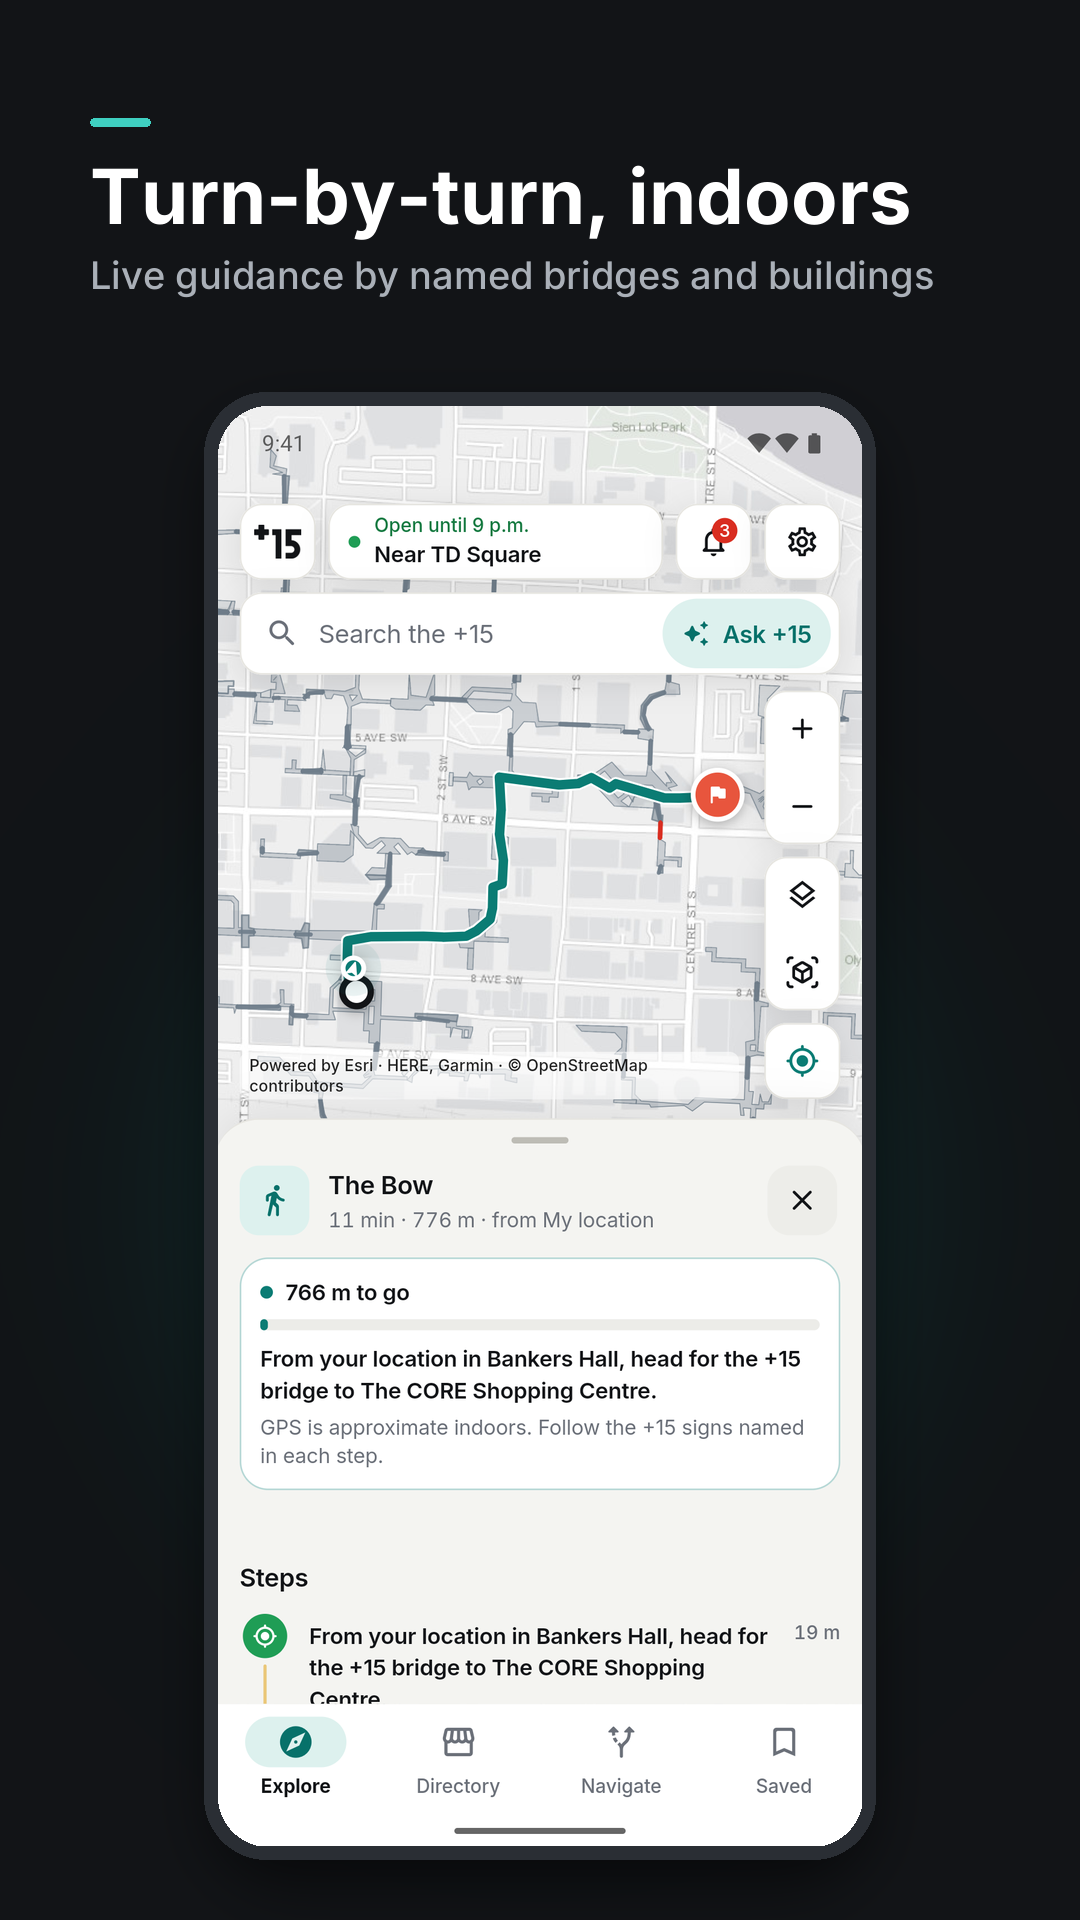
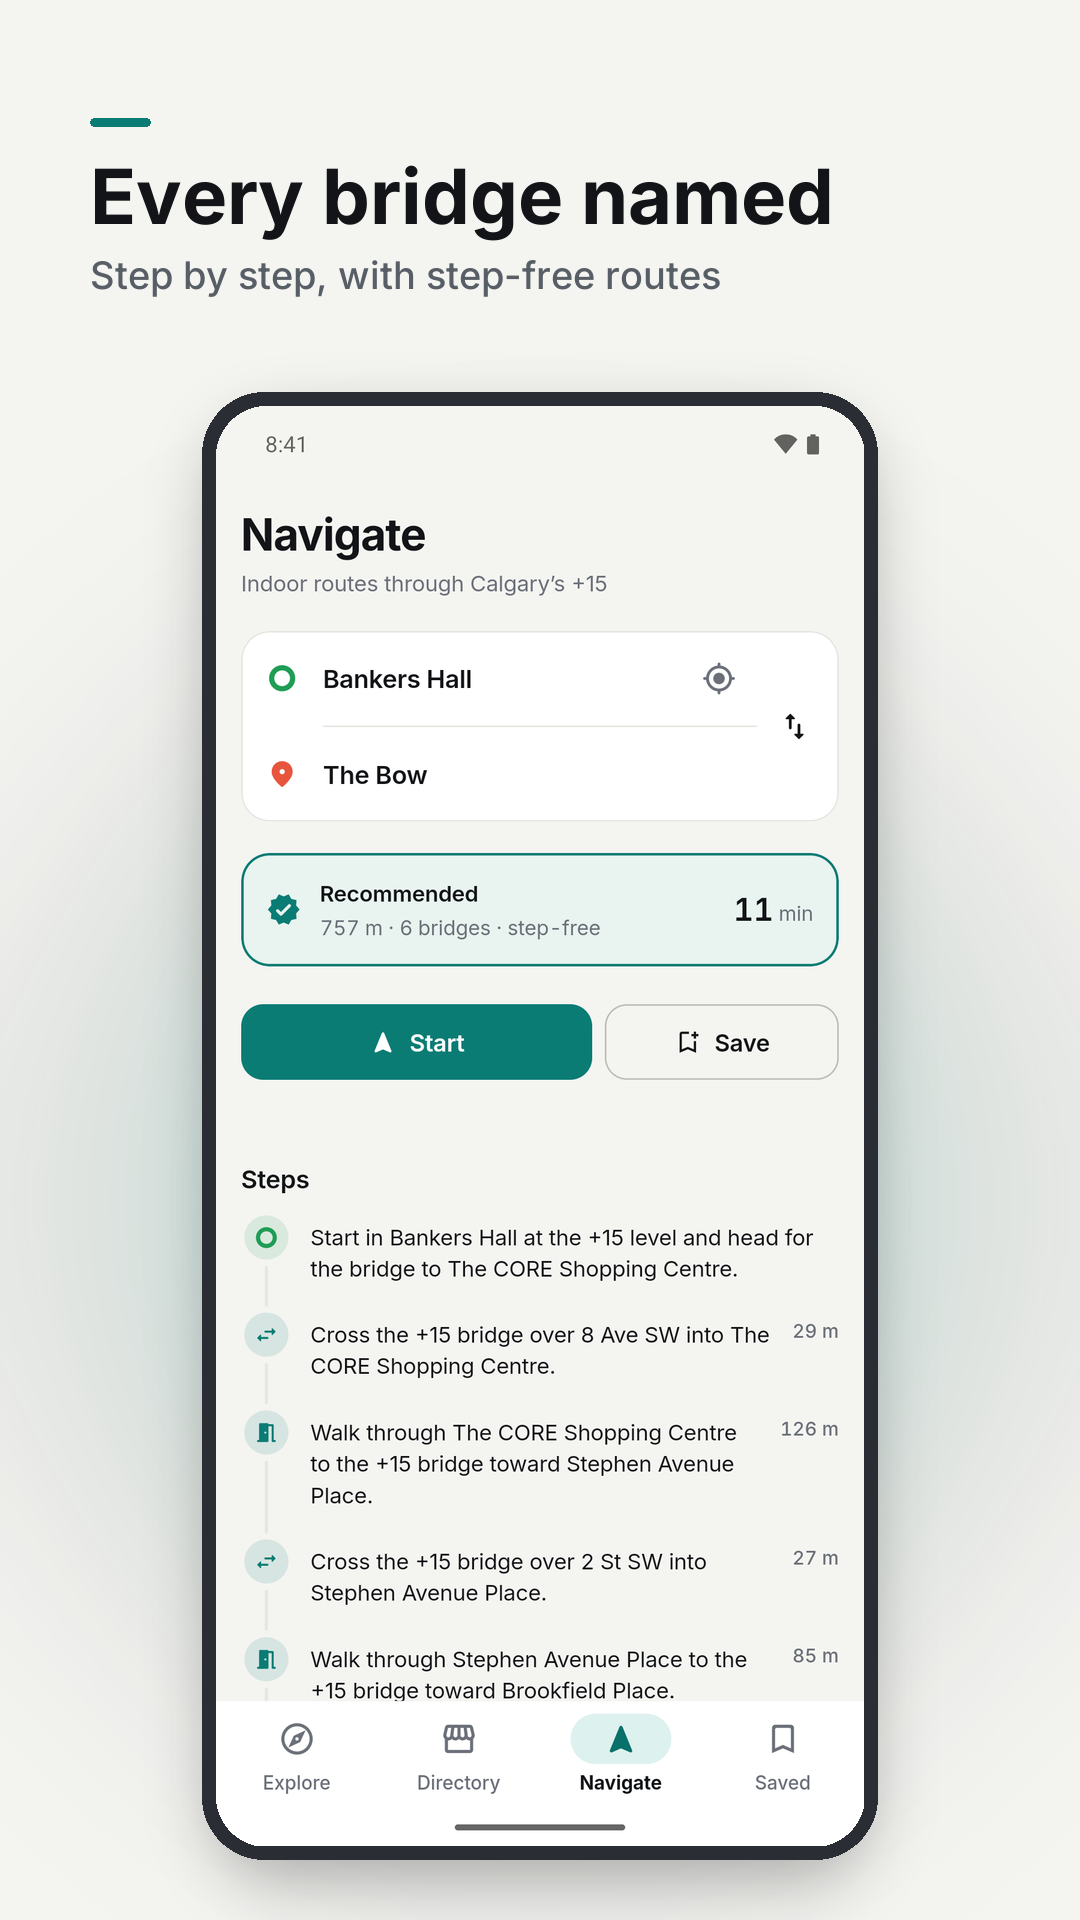
Store growth pass: keyword listing, light screenshots, landing page
Following the r/googleplayconsole "17 installs a month" playbook. Play Console
baseline (Oct 9 - Nov 5): 25 impressions, 11 visitors, 10 install clicks.
The listing converts; the app just isn't being found.

- listing.txt: keyword title "Plus 15 Map: Calgary Skywalk", short
  description with search terms, a longer description with who-it's-for and
  an FAQ, and an fr-CA listing
- make_store.py: light frames, 6 shots in pitch order from fresh emulator
  captures; drops the stale feature-graphic/icon code ("141 places")
- index.html: landing page for Google web search ("calgary +15 map")
- growth.md: dated metrics log; outreach.md: drafts to send by hand

diff --git a/docs/index.html b/docs/index.html
@@ -1,0 +1,74 @@
+<!doctype html>
+<html lang="en">
+<head>
+<meta charset="utf-8">
+<meta name="viewport" content="width=device-width, initial-scale=1">
+<title>Calgary +15 Map: indoor routes through the Plus 15 skywalk | Plus 15 app</title>
+<meta name="description" content="Free Calgary +15 map app for Android. Indoor walking routes through the Plus 15 skywalk that name every bridge, plus shops, food courts and +15 hours in downtown Calgary.">
+<link rel="canonical" href="https://harshalpathak97.github.io/plus15/">
+<meta property="og:title" content="Plus 15: the Calgary +15 map">
+<meta property="og:description" content="Indoor routes through Calgary’s +15 skywalk, bridge by bridge. No account, no ads, no tracking.">
+<meta property="og:image" content="https://harshalpathak97.github.io/plus15/store/phone-1.png">
+<meta property="og:type" content="website">
+<script type="application/ld+json">
+{"@context":"https://schema.org","@type":"MobileApplication","name":"Plus 15 Map: Calgary Skywalk","operatingSystem":"Android","applicationCategory":"TravelApplication","offers":{"@type":"Offer","price":"0","priceCurrency":"CAD"},"downloadUrl":"https://play.google.com/store/apps/details?id=com.plus15.plus15_navigator"}
+</script>
+<style>
+  body { font: 17px/1.6 system-ui, -apple-system, "Segoe UI", Roboto, sans-serif; color: #121417; background: #F4F4F1; margin: 0; }
+  main { max-width: 960px; margin: 0 auto; padding: 40px 20px 64px; }
+  h1 { font-size: clamp(30px, 6vw, 48px); line-height: 1.1; margin: 8px 0 12px; }
+  h2 { font-size: 22px; margin: 48px 0 8px; }
+  h3 { font-size: 17px; margin: 20px 0 4px; }
+  p, li { color: #2b2f35; max-width: 640px; }
+  .muted, footer p { color: #5D626A; font-size: 15px; }
+  a { color: #0B7C74; }
+  .mark { display: inline-block; background: #121417; color: #fff; font-weight: 800; border-radius: 12px; padding: 6px 12px; }
+  .cta { display: inline-block; margin: 16px 0 4px; background: #0B7C74; color: #fff; text-decoration: none; font-weight: 600; padding: 14px 24px; border-radius: 12px; min-height: 48px; box-sizing: border-box; }
+  .cta:hover { background: #096A63; }
+  .shots { display: grid; grid-template-columns: repeat(3, 1fr); gap: 16px; margin: 32px 0 0; }
+  .shots img { width: 100%; height: auto; border-radius: 16px; box-shadow: 0 6px 24px rgba(0,0,0,.08); }
+  @media (max-width: 640px) { .shots { grid-template-columns: 1fr 1fr; } .shots img:nth-child(3) { display: none; } }
+  footer { margin-top: 56px; border-top: 1px solid #E6E5E0; padding-top: 16px; }
+</style>
+</head>
+<body>
+<main>
+<span class="mark">+15</span>
+<h1>The Calgary +15 map that walks you there, indoors</h1>
+<p>It’s −30°. You’re in Bankers Hall. Your meeting is in The Bow. Plus 15 finds the indoor route through Calgary’s +15 skywalk and names every bridge on the way: “over 8 Ave SW into The CORE”.</p>
+<a class="cta" href="https://play.google.com/store/apps/details?id=com.plus15.plus15_navigator">Get it on Google Play</a>
+<p class="muted">Free for Android. No account, no ads, no tracking.</p>
+
+<div class="shots">
+  <img src="store/phone-1.png" width="1080" height="1920" alt="Route from Bankers Hall to The Bow on the +15 map, with live guidance">
+  <img src="store/phone-2.png" width="1080" height="1920" alt="Step-by-step route naming each +15 bridge" loading="lazy">
+  <img src="store/phone-4.png" width="1080" height="1920" alt="Directory of shops and food on the +15 with opening hours" loading="lazy">
+</div>
+
+<h2>What it does</h2>
+<ul>
+  <li>Search any building, shop or coffee spot in downtown Calgary.</li>
+  <li>Get an indoor walking route that names every +15 bridge, with step-free options and a Mostly indoors choice for the coldest days.</li>
+  <li>Find the nearest +15 entrance from the street. Coming from outside downtown, your maps app takes you to the best entrance and Plus 15 guides you inside.</li>
+  <li>See +15 hours, bridge closures and opening hours for 130+ shops, food courts and services.</li>
+  <li>109 buildings and 80 bridges: 16 km of heated walkways, 15 feet above the street.</li>
+</ul>
+
+<h2>Questions people ask</h2>
+<h3>What is the Calgary +15?</h3>
+<p>The +15 (Plus 15) is one of the world’s largest pedestrian skywalk systems: enclosed bridges about 15 feet above the street that link most downtown office towers, malls and hotels.</p>
+<h3>When is the +15 open?</h3>
+<p>The City lists 6 am to 9 pm on weekdays and 9 am to 7 pm on weekends and holidays, and the walkways are closed on December 25. Some buildings and bridges keep shorter hours.</p>
+<h3>How do I get into the +15 from the street?</h3>
+<p>Most towers have an escalator or elevator up to the +15 level near the main doors. In the app, tap Find nearest +15 entrance and it walks you there along the sidewalk.</p>
+<h3>Is there a Plus 15 map for iPhone?</h3>
+<p>Not yet. Plus 15 is on Android for now.</p>
+
+<p><a href="https://youtu.be/sakjfEfKGIM">Watch the 20-second preview</a></p>
+
+<footer>
+  <p>Independent app, not affiliated with or endorsed by The City of Calgary. Contains information licensed under the Open Government Licence – City of Calgary. Map data © OpenStreetMap contributors. <a href="privacy.html">Privacy policy</a>.</p>
+</footer>
+</main>
+</body>
+</html>

diff --git a/docs/store/make_store.py b/docs/store/make_store.py
@@ -1,67 +1,48 @@
+"""Play phone screenshots (1080x1920) from raw emulator captures in .context/store/raw.
+
+The feature graphic and icon are made elsewhere (the live feature graphic is v2 in the
+1.0.3 release folder), so this script only frames the phone shots.
+"""
 from PIL import Image, ImageDraw, ImageFont, ImageFilter
 import os
 import pathlib; ROOT=str(pathlib.Path(__file__).resolve().parents[2])
 RAW=f'{ROOT}/.context/store/raw'; OUT=f'{ROOT}/docs/store'
 F=lambda w,s: ImageFont.truetype(f'{ROOT}/assets/fonts/Inter-{w}.ttf', s)
-INK=(18,20,23); TEAL=(63,208,193); SOFT=(244,244,241); MUTED=(170,176,184)
+INK=(18,20,23); TEAL=(11,124,116); BG=(244,244,241); MUTED=(88,94,102)
 
 def rounded(im, r):
     m=Image.new('L', im.size, 0); ImageDraw.Draw(m).rounded_rectangle([0,0,*im.size], r, fill=255)
     im=im.convert('RGBA'); im.putalpha(m); return im
 
-def frame(raw, title, sub, name, H_SHOT=1440):
+def frame(raw, title, sub, name, crop_h=None, H_SHOT=1440):
     W,H=1080,1920
-    bg=Image.new('RGB',(W,H),INK)
-    d=ImageDraw.Draw(bg)
-    # subtle teal glow behind the phone
-    glow=Image.new('RGBA',(W,H),(0,0,0,0)); gd=ImageDraw.Draw(glow)
-    gd.ellipse([140,700,940,1700], fill=(11,124,116,90)); glow=glow.filter(ImageFilter.GaussianBlur(160))
+    bg=Image.new('RGB',(W,H),BG)
+    glow=Image.new('RGBA',(W,H),(0,0,0,0))
+    ImageDraw.Draw(glow).ellipse([140,700,940,1700], fill=(63,208,193,70)); glow=glow.filter(ImageFilter.GaussianBlur(160))
     bg.paste(glow,(0,0),glow)
     d=ImageDraw.Draw(bg)
     d.rounded_rectangle([90,118,150,126],4,fill=TEAL)
-    d.text((90,150), title, font=F(700,76), fill=(255,255,255))
+    d.text((90,150), title, font=F(700,76), fill=INK)
     d.text((90,252), sub, font=F(500,38), fill=MUTED)
     shot=Image.open(f'{RAW}/{raw}.png').convert('RGB')
-    shot=shot.crop((6,6,shot.width-6,shot.height-6))  # drop the emulator's edge flash
+    if crop_h: shot=shot.crop((0,0,shot.width,crop_h))  # hide text below the fold
     w=int(shot.width*H_SHOT/shot.height); shot=shot.resize((w,H_SHOT), Image.LANCZOS)
-    # bezel
     bez=Image.new('RGBA',(w+28,H_SHOT+28),(0,0,0,0)); ImageDraw.Draw(bez).rounded_rectangle([0,0,w+27,H_SHOT+27],62,fill=(42,46,52,255))
     x=(W-bez.width)//2; y=H-bez.height-60
-    sh=Image.new('RGBA',(W,H),(0,0,0,0)); ImageDraw.Draw(sh).rounded_rectangle([x+10,y+30,x+bez.width-10,y+bez.height+20],70,fill=(0,0,0,150))
+    sh=Image.new('RGBA',(W,H),(0,0,0,0)); ImageDraw.Draw(sh).rounded_rectangle([x+10,y+30,x+bez.width-10,y+bez.height+20],70,fill=(0,0,0,70))
     sh=sh.filter(ImageFilter.GaussianBlur(30)); bg.paste(sh,(0,0),sh)
     bg.paste(bez,(x,y),bez); s=rounded(shot,50); bg.paste(s,(x+14,y+14),s)
+    assert d.textlength(title, font=F(700,76))<=W-180 and d.textlength(sub, font=F(500,38))<=W-180, name
     bg.save(f'{OUT}/{name}.png', optimize=True); print(name, os.path.getsize(f'{OUT}/{name}.png')//1024,'KB')
 
-frames=[
- ('01-map',      "Calgary’s +15,\nfinally easy",        "", ),
-]
+# The first two carry the pitch: they're the only ones shown on Play search cards.
 specs=[
- ('01-map',"The +15, finally easy","16 km of indoor skywalks on one calm map"),
- ('03-navigation',"Turn-by-turn, indoors","Live guidance by named bridges and buildings"),
- ('02-route-options',"Every step spelled out","Step-free options and honest walk times"),
- ('06-ask',"Just ask","Coffee, food or a route, answered in seconds"),
- ('05-directory',"141 places, real hours","Shops, food and services, open now at a glance"),
- ('04-3d',"See it in 3D","Follow your walk through the skywalks"),
- ('07-dark',"Easy on the eyes","A dark mode for late nights downtown"),
+ ('03-nav',"Skip the cold","Bankers Hall to The Bow, all indoors",1880),
+ ('02-routes',"Every bridge named","Step by step, with step-free routes",None),
+ ('04-nearest',"Find a way in","The nearest +15 entrance from the street",None),
+ ('05-directory',"130+ places, real hours","Coffee, food and shops, open now",None),
+ ('06-3d',"See it in 3D","16 km of skywalks, 15 feet up",None),
+ ('01-map',"Calgary’s +15 map","109 buildings, 80 bridges, one calm map",None),
 ]
-for i,(raw,t,s) in enumerate(specs,1): frame(raw,t,s,f'phone-{i}')
-
-# Feature graphic 1024x500
-W,H=1024,500
-fg=Image.new('RGB',(W,H),INK); d=ImageDraw.Draw(fg)
-glow=Image.new('RGBA',(W,H),(0,0,0,0)); ImageDraw.Draw(glow).ellipse([560,-100,1180,600],fill=(11,124,116,110)); glow=glow.filter(ImageFilter.GaussianBlur(120)); fg.paste(glow,(0,0),glow)
-mark=Image.open(f'{ROOT}/assets/icons/plus15_mark.png').convert('RGBA'); mw=150; mark=mark.resize((mw,int(mark.height*mw/mark.width)),Image.LANCZOS)
-fg.paste(mark,(64,96),mark)
-d=ImageDraw.Draw(fg)
-d.text((64,226),"Calgary’s +15,",font=F(700,52),fill=(255,255,255))
-d.text((64,288),"finally easy.",font=F(700,52),fill=TEAL)
-d.text((64,372),"Indoor routes · 141 places · live hours",font=F(500,24),fill=MUTED)
-shot=Image.open(f'{RAW}/03-navigation.png').convert('RGB').crop((6,6,1074,2394))
-sw=300; shot=shot.resize((sw,int(shot.height*sw/shot.width)),Image.LANCZOS)
-bez=Image.new('RGBA',(sw+16,shot.height+16),(0,0,0,0)); ImageDraw.Draw(bez).rounded_rectangle([0,0,sw+15,shot.height+15],34,fill=(42,46,52,255))
-fg.paste(bez,(640,70),bez); s=rounded(shot,28); fg.paste(s,(648,78),s)
-fg.save(f'{OUT}/feature-graphic.png',optimize=True); print('feature', os.path.getsize(f'{OUT}/feature-graphic.png')//1024,'KB')
-
-# Icon 512
-ic=Image.open(f'{ROOT}/assets/icons/plus15_logo.png').convert('RGB').resize((512,512),Image.LANCZOS)
-ic.save(f'{OUT}/icon-512.png',optimize=True); print('icon', os.path.getsize(f'{OUT}/icon-512.png')//1024,'KB')
+for f in pathlib.Path(OUT).glob('phone-*.png'): f.unlink()
+for i,(raw,t,s,c) in enumerate(specs,1): frame(raw,t,s,f'phone-{i}',c)

diff --git a/docs/store/outreach.md b/docs/store/outreach.md
@@ -1,0 +1,112 @@
+# Plus 15: outreach drafts
+
+These are drafts for you to send or post from your own accounts. Send them on the first cold
+snap (the first −20° forecast), when "how do I stay indoors downtown" is on people's minds.
+Afterwards, log what went out, and when, in `growth.md`.
+
+Links:
+- Play: https://play.google.com/store/apps/details?id=com.plus15.plus15_navigator
+- Site: https://harshalpathak97.github.io/plus15/
+- Video: https://youtu.be/sakjfEfKGIM
+
+---
+
+## 1. r/Calgary post
+
+Check the subreddit rules first. Self-promotion may need to be a comment in a weekly thread, or a
+mod may have to approve it. Post from your own account, reply to comments for the first
+couple of hours, and don't cross-post the same day.
+
+**Title:** I made a free +15 map app that gives you indoor routes bridge by bridge (no ads, no tracking)
+
+**Body:**
+> Every winter I'd end up in the wrong tower trying to get from Bankers Hall to The Bow without going outside, so I mapped the whole +15: 109 buildings, 80 bridges, 130+ shops with opening hours.
+>
+> You pick where you are and where you're going, and it gives you a route that names each bridge ("cross over 8 Ave SW into The CORE"). It has step-free routes, a "mostly indoors" option, and it can walk you to the nearest +15 entrance from the street.
+>
+> It's free on Android, with no account, no ads and no tracking. It's not affiliated with the City. iPhone isn't available yet.
+>
+> [Play link]
+>
+> I'd really like to hear about mistakes: closed bridges, wrong hours, routes that send you somewhere silly. There's a feedback link in the app, or just comment here.
+
+**Ongoing:** search r/Calgary for "+15" and "plus 15" every week or two. Where someone is asking how
+to get somewhere indoors, answer the question properly first and mention the app in one line at the end.
+
+---
+
+## 2. LinkedIn post
+
+> Calgary's +15 is 16 km of heated skywalks, and most people I know use about three bridges of it.
+>
+> I built Plus 15, a free Android app that gives you indoor routes through the whole network, naming every bridge on the way. It also shows shops and food courts with opening hours and the nearest +15 entrance from the street. No account, no ads, no tracking.
+>
+> If you work downtown, I'd love you to try it on your next −25° day and tell me where it gets things wrong.
+>
+> [Play link]
+
+Add 2 screenshots (`docs/store/phone-1.png`, `phone-2.png`).
+
+---
+
+## 3. Local media pitch
+
+Send to: CBC Calgary (news tips), Calgary Herald (city desk), LiveWire Calgary, Daily Hive
+Calgary, Avenue Calgary. Find the current tip addresses on each outlet's contact page.
+
+**Subject:** Calgary developer maps the whole +15 so you never have to go outside downtown
+
+> Hi [name],
+>
+> With winter here, a quick local story idea: I'm a Calgary developer, and I built Plus 15, a free app that routes people indoors through the +15 skywalk, bridge by bridge.
+>
+> The +15 is 16 km of walkways linking more than 100 buildings, but there's no turn-by-turn way to use it: the City's map is a static PDF and the signs change building by building. The app covers 109 buildings and 80 bridges, the hours of 130+ shops and food courts, step-free routes, and the nearest way in from the street. It has no ads and no tracking, and it isn't affiliated with the City.
+>
+> I'm happy to do a walk-through on a cold morning, from Bankers Hall to The Bow without a coat.
+>
+> 20-second preview: https://youtu.be/sakjfEfKGIM
+> Screenshots and info: https://harshalpathak97.github.io/plus15/
+>
+> [Your name, phone]
+
+Before sending, check the claim "the City's map is a static PDF" against calgary.ca/plus15 and
+adjust it if that's changed.
+
+---
+
+## 4. Downtown Calgary / Tourism Calgary / TELUS Convention Centre
+
+**Subject:** A free +15 wayfinding app for downtown visitors
+
+> Hi [name],
+>
+> I built Plus 15, a free Android app that gives indoor walking routes through the +15 and names every bridge on the way, with shops and food court hours. It has no ads and no tracking.
+>
+> Would you consider listing it in your visitor or "getting around downtown" resources, or mentioning it in a winter newsletter? I'm happy to send screenshots or a short blurb, and to fix anything in your area that the app gets wrong.
+>
+> https://harshalpathak97.github.io/plus15/
+>
+> [Your name]
+
+---
+
+## 5. Property managers of the big +15 towers
+
+Send to the tenant-services or tenant-newsletter contacts at Brookfield Place / Bankers Hall
+(Brookfield Properties), The CORE (Oxford Properties), Eau Claire Tower, Suncor Energy Centre and
+Eighth Avenue Place. Use the same text as #4, but open with:
+
+> Your tenants use the +15 every day, and in winter they ask how to get to [neighbouring tower] without going outside.
+
+Offer to check the app's routes and entrances for their building first. They'll care that
+their building is shown correctly.
+
+---
+
+## 6. Ratings
+
+Message the closed-test testers individually:
+
+> The +15 app is public now. If it's been useful, an honest rating on Play would really help other Calgarians find it: [Play link]. And if something's wrong, tell me and I'll fix it.
+
+Never offer anything in exchange for a review; Play policy bans incentivised ratings.

diff --git a/docs/store/growth.md b/docs/store/growth.md
@@ -1,0 +1,19 @@
+# Plus 15: growth log
+
+Source: Play Console (Grow users overview, Store listings). The app has no analytics, so Play Console is the only measurement.
+
+Rule from the r/googleplayconsole "17 installs a month" thread: if the listing conversion rate is at or above about 30%, the listing works and the problem is **visibility**; if it's lower, fix the listing first.
+
+| Date | Window | Device impressions | Listing visitors | Install clicks | Listing conversion | Acquisitions | First opens | MAU | What changed |
+|---|---|---|---|---|---|---|---|---|---|
+| 2026-11-09 | 28 d (Oct 9 – Nov 5) | 25 | 11 | 10 | 91% (46.2% on the default listing row; 92.9% over 90 days) | 9 | 6 | 7 | Baseline. 1.0.3 live since Oct 31. Title "Plus 15: Calgary +15 Navigator". |
+
+**Diagnosis (2026-11-09):** visibility. Only 25 impressions in 28 days, but 9 of every 10 visitors install. Search terms aren't reported at this volume.
+
+**Changes being tested:**
+1. Keyword title and short description, a longer description with FAQ, and an fr-CA listing.
+2. A new screenshot set: light frames, ordered so the route and bridges come first.
+3. A landing page at harshalpathak97.github.io/plus15/ for Google web search.
+4. Local outreach (see `outreach.md`).
+
+**Next checks:** 2026-11-23 and 2026-12-07. Add a row each time with the same window length.
